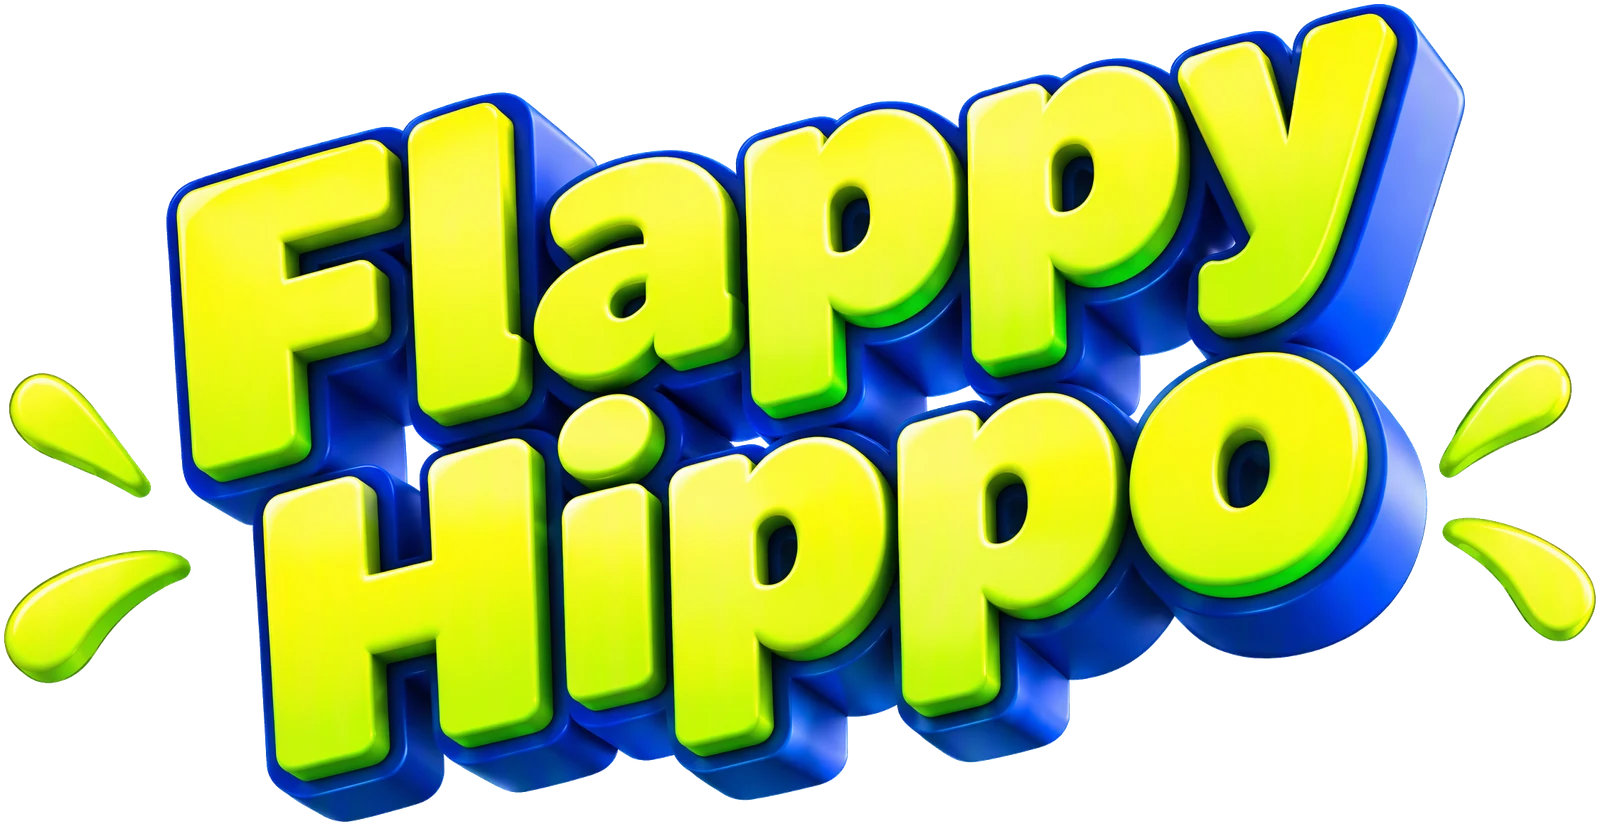
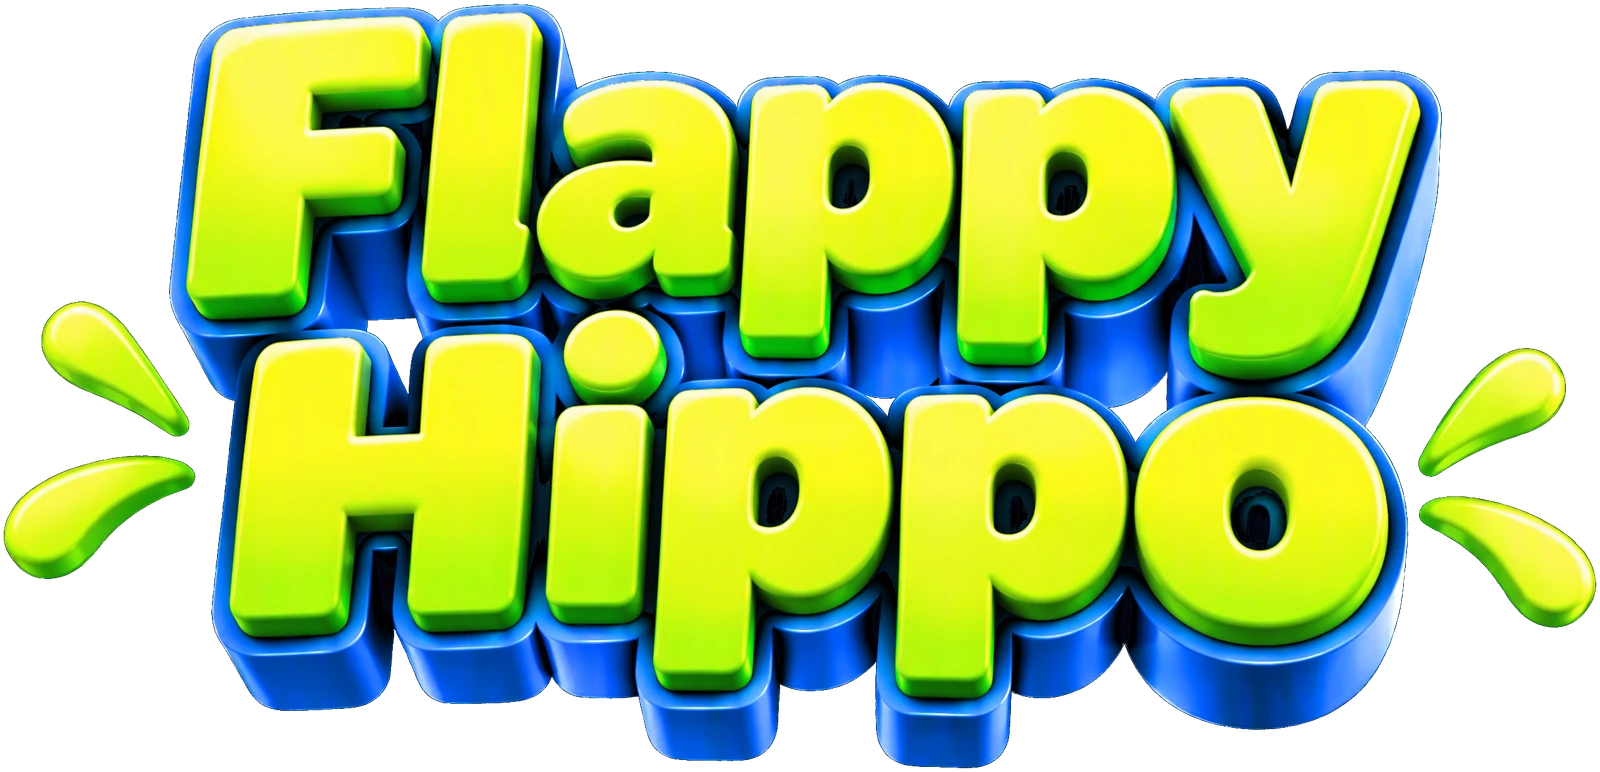
Swap in the new three dimensional lettering

diff --git a/scripts/make-assets.ts b/scripts/make-assets.ts
@@ -271,17 +271,104 @@ await writeFile(join(root, 'public', 'preview.jpg'), preview)
 console.log(`public/preview.jpg (${Math.round(preview.length / 1024)} KB)`)
 await writeFile(join(root, 'public', 'mask-icon.svg'), await asset('mask-icon.svg'))
 
+interface Blue {
+  /** Where the render's own blue lands. */
+  to: string
+  /** Above 1 puts colour back that a flatter blue loses. */
+  sat: number
+  /** Above 1 opens the gap between the lit faces and the shaded ones. */
+  contrast: number
+}
+
+/** Every blue tried, so an earlier look is one name away. */
+const BLUES = {
+  flat: { to: '#0d5cc8', sat: 0.88, contrast: 1 },
+  punchy: { to: '#0d5cc8', sat: 1.15, contrast: 1.4 },
+  deep: { to: '#0a4fb8', sat: 1.25, contrast: 1.6 },
+  darkest: { to: '#0847a8', sat: 1.3, contrast: 1.8 },
+} as const satisfies Record<string, Blue>
+
+const BLUE: Blue = BLUES.darkest
+
+/**
+ * The lettering is modelled in its own blue, a good deal darker than the pipes it hangs among.
+ * Blue pixels are moved onto the pipes' hue, saturation and lightness by the same factors, so the
+ * shading the render gave them survives; the yellow faces and the green rims are left alone.
+ */
+async function matchPipes(png: Buffer, from: string, blue: Blue): Promise<Buffer> {
+  const hex = (h: string): [number, number, number] =>
+    [1, 3, 5].map((i) => parseInt(h.slice(i, i + 2), 16)) as [number, number, number]
+  const toHsl = ([r, g, b]: [number, number, number]): [number, number, number] => {
+    r /= 255
+    g /= 255
+    b /= 255
+    const max = Math.max(r, g, b)
+    const min = Math.min(r, g, b)
+    const l = (max + min) / 2
+    if (max === min) return [0, 0, l]
+    const d = max - min
+    const s = l > 0.5 ? d / (2 - max - min) : d / (max + min)
+    const h = max === r ? (g - b) / d + (g < b ? 6 : 0) : max === g ? (b - r) / d + 2 : (r - g) / d + 4
+    return [h * 60, s, l]
+  }
+  const toRgb = ([h, s, l]: [number, number, number]): [number, number, number] => {
+    const hue = (((h % 360) + 360) % 360) / 360
+    if (s === 0) return [l, l, l].map((v) => Math.round(v * 255)) as [number, number, number]
+    const q = l < 0.5 ? l * (1 + s) : l + s - l * s
+    const p = 2 * l - q
+    const at = (t: number): number => {
+      const u = (t + 1) % 1
+      if (u < 1 / 6) return p + (q - p) * 6 * u
+      if (u < 1 / 2) return q
+      if (u < 2 / 3) return p + (q - p) * (2 / 3 - u) * 6
+      return p
+    }
+    return [at(hue + 1 / 3), at(hue), at(hue - 1 / 3)].map((v) => Math.round(Math.min(1, Math.max(0, v)) * 255)) as [
+      number,
+      number,
+      number,
+    ]
+  }
+
+  const [sh, , sl] = toHsl(hex(from))
+  const [th, , tl] = toHsl(hex(blue.to))
+  const { data, info } = await sharp(png).ensureAlpha().raw().toBuffer({ resolveWithObject: true })
+  for (let p = 0; p < info.width * info.height; p++) {
+    const i = p * 4
+    if (data[i + 3] < 8) continue
+    const r = data[i]
+    const g = data[i + 1]
+    const b = data[i + 2]
+    if (!(b > r + 25 && b > g + 15)) continue
+    const [h, s, l] = toHsl([r, g, b])
+    const [nr, ng, nb] = toRgb([
+      h + (th - sh),
+      Math.min(1, s * blue.sat),
+      Math.min(1, Math.max(0, tl + (l - sl) * blue.contrast)),
+    ])
+    data[i] = nr
+    data[i + 1] = ng
+    data[i + 2] = nb
+  }
+  return sharp(data, { raw: { width: info.width, height: info.height, channels: 4 } })
+    .png()
+    .toBuffer()
+}
+
 // ---- wordmark ---------------------------------------------------------------------------------
-// The poster's lettering for the desktop frame (src/assets/wordmark.png, on white): the white is
-// keyed out the way the icon's blue is, stray specks go, and it is cropped to the lettering at a
-// width a 2x display shows full size.
+// The lettering for the desktop frame (src/assets/wordmark.png, on black): the black is keyed out
+// the way the icon's blue is, stray specks go, the blue is brought onto the pipes' own, and it is
+// cropped to the lettering at a width a 2x display shows full size.
 const mark = await cutout(await asset('wordmark.png'), true)
 const cleaned = await dropSpecks(mark, 1500, 'wordmark')
 const margin = 6
 const [l, t, r, b] = cleaned.box
-const wordmark = await sharp(cleaned.png)
+const cropped = await sharp(cleaned.png)
   .extract({ left: l - margin, top: t - margin, width: r - l + 1 + margin * 2, height: b - t + 1 + margin * 2 })
   .resize({ width: 1600 })
+  .png()
+  .toBuffer()
+const wordmark = await sharp(await matchPipes(cropped, '#0030a0', BLUE))
   .webp({ quality: 88, alphaQuality: 90 })
   .toBuffer()
 await out('wordmark.webp', wordmark)

diff --git a/src/components/Wordmark.tsx b/src/components/Wordmark.tsx
@@ -1,69 +1,71 @@
-import { useLayoutEffect, useRef, useState } from 'react'
+import { useCallback, useState } from 'react'
+import type { SyntheticEvent } from 'react'
+import { grainUrl } from './grain.ts'
 
 interface WordmarkProps {
   height: number
-  claim: string | null
   dark: boolean
 }
 
 /** The lettering is lit for daylight; at night it is dimmed to sit in the dark sky. */
-export const WORDMARK_NIGHT = 0.85
+export const WORDMARK_NIGHT = 0.72
 
-export function Wordmark({ height, claim, dark }: WordmarkProps) {
-  const imageHeight = Math.round(height * (claim ? 0.64 : 0.86))
-  const claimSize = Math.round(imageHeight * 0.13)
-  const group = useRef<HTMLDivElement>(null)
-  const pill = useRef<HTMLParagraphElement>(null)
-  // The claim is tilted, and a rotation hangs below the box it is laid out in without widening
-  // it. Measured and given back as a margin, so the caller's bottom edge is the one you see.
-  const [overhang, setOverhang] = useState(0)
+/** How much of the room above the board the tilted lettering fills. */
+const FILL = 1.06
 
-  useLayoutEffect(() => {
-    const box = group.current
-    const tilted = pill.current
-    if (!box || !tilted) {
-      setOverhang(0)
-      return
-    }
-    // Both boxes move together with the margin, so this difference is stable.
-    const below = tilted.getBoundingClientRect().bottom - box.getBoundingClientRect().bottom
-    setOverhang(Math.max(0, Math.round(below)))
-  }, [imageHeight, claimSize, claim])
+/** The tilt the lettering hangs at. */
+const TILT = -10
+
+/** The page's specks, taken finer and fainter: the lettering is small and brightly lit. */
+const GRAIN = { tile: 120, strength: 0.7 }
+
+/**
+ * A tilt turns the box out past the one it is laid out in without widening that one. The caller
+ * aligns the laid-out box, which puts the lettering's lower edge on the board's top edge and lets
+ * only the low corner reach further in, well clear of the score in the middle.
+ */
+export function Wordmark({ height, dark }: WordmarkProps) {
+  const [aspect, setAspect] = useState(1600 / 772)
+  const rad = (Math.abs(TILT) * Math.PI) / 180
+  const tall = Math.round((height * FILL) / (Math.cos(rad) + aspect * Math.sin(rad)))
+
+  const onLoad = useCallback((event: SyntheticEvent<HTMLImageElement>) => {
+    const img = event.currentTarget
+    if (img.naturalHeight > 0) setAspect(img.naturalWidth / img.naturalHeight)
+  }, [])
 
   return (
-    <div
-      ref={group}
-      className="pointer-events-none flex flex-col items-center justify-center"
-      style={{ filter: dark ? `brightness(${WORDMARK_NIGHT})` : undefined, marginBottom: overhang }}
+    <span
+      className="pointer-events-none relative inline-block"
+      style={{
+        transform: `rotate(${TILT}deg)`,
+        filter: dark ? `brightness(${WORDMARK_NIGHT})` : undefined,
+      }}
       aria-hidden="true"
     >
       <img
         src="wordmark.webp"
         alt=""
         width={1600}
-        height={826}
+        height={772}
         decoding="async"
-        className="relative z-10"
-        style={{ height: imageHeight, width: 'auto', maxWidth: '90vw' }}
+        onLoad={onLoad}
+        className="block"
+        style={{ height: tall, width: 'auto', maxWidth: '90vw' }}
       />
-      {claim && (
-        <p
-          ref={pill}
-          className="t-label relative z-0 rounded-full whitespace-nowrap"
-          style={{
-            fontSize: claimSize,
-            lineHeight: 1.2,
-            padding: `${claimSize * 0.32}px ${claimSize * 1.1}px`,
-            marginTop: -claimSize * 0.85,
-            background: '#dcf23e',
-            color: '#12307f',
-            boxShadow: `0 ${Math.max(2, claimSize * 0.14)}px 0 #9fc11d`,
-            transform: `translateX(${imageHeight * 0.1}px) rotate(-10deg)`,
-          }}
-        >
-          {claim}
-        </p>
-      )}
-    </div>
+      {/* The page's specks again, masked to the lettering so they do not settle on the sky. */}
+      <span
+        className="absolute inset-0"
+        style={{
+          backgroundImage: `url(${grainUrl()})`,
+          backgroundSize: `${GRAIN.tile}px ${GRAIN.tile}px`,
+          opacity: GRAIN.strength,
+          maskImage: 'url(wordmark.webp)',
+          WebkitMaskImage: 'url(wordmark.webp)',
+          maskSize: '100% 100%',
+          WebkitMaskSize: '100% 100%',
+        }}
+      />
+    </span>
   )
 }

diff --git a/src/components/StartCard.tsx b/src/components/StartCard.tsx
@@ -39,31 +39,45 @@ export function StartCard({
 
   return (
     <CardShell onBackdropTap={onStart} labelledBy="start-title">
-      {!logoAbove && (
-        <img
-          src="wordmark.webp"
-          alt=""
-          width={1600}
-          height={826}
-          decoding="async"
-          className="mx-auto mb-1 block h-auto w-full max-w-[15rem]"
-          style={{ filter: dark ? `brightness(${WORDMARK_NIGHT})` : undefined }}
-        />
-      )}
-      <h2 id="start-title" className={logoAbove ? 't-title text-brand' : 'sr-only'}>
-        {logoAbove ? t.start.title : 'Flappy Hippo'}
-      </h2>
+      {/* The lettering and the record are one block, lit from behind, so the pair reads as the
+          card's head rather than as two things that happen to sit above each other. */}
+      <div
+        className={logoAbove ? undefined : '-mx-2 -mt-2 rounded-[1.25rem] px-2 pt-3 pb-2'}
+        style={
+          logoAbove
+            ? undefined
+            : {
+                background:
+                  'radial-gradient(72% 62% at 50% 42%, color-mix(in srgb, var(--game-brand) 14%, transparent), transparent 72%)',
+              }
+        }
+      >
+        {!logoAbove && (
+          <img
+            src="wordmark.webp"
+            alt=""
+            width={1600}
+            height={772}
+            decoding="async"
+            className="mx-auto block h-auto w-full max-w-[15rem]"
+            style={{ filter: dark ? `brightness(${WORDMARK_NIGHT})` : undefined }}
+          />
+        )}
+        <h2 id="start-title" className={logoAbove ? 't-title text-brand' : 'sr-only'}>
+          {logoAbove ? t.start.title : 'Flappy Hippo'}
+        </h2>
 
-      {best > 0 && (
-        <p className="mt-2">
-          <Stat
-            icon={medal ? <MedalBadge medal={medal} size={21} /> : <IconTrophy width={18} height={18} />}
-            tone="brand"
-          >
-            {t.start.record} <span className="t-number">{best}</span>
-          </Stat>
-        </p>
-      )}
+        {best > 0 && (
+          <p className={logoAbove ? 'mt-2' : 'mt-0.5'}>
+            <Stat
+              icon={medal ? <MedalBadge medal={medal} size={21} /> : <IconTrophy width={18} height={18} />}
+              tone="brand"
+            >
+              {t.start.record} <span className="t-number">{best}</span>
+            </Stat>
+          </p>
+        )}
+      </div>
 
       <div className="mt-5">
         <Segmented

diff --git a/src/components/Game.tsx b/src/components/Game.tsx
@@ -34,12 +34,11 @@ function menuFromUrl(): MenuTab | null {
   }
 }
 
-/** How far the lettering reaches past the board's top edge, so it sits on the board, not above it. */
-const WORDMARK_DIP = 12
+/** How far the lettering's lower edge reaches past the board's top edge, clear of the score. */
+const WORDMARK_DIP = 14
 
-/** Room above the board, in CSS pixels, before the wordmark, its claim, and the shortcut line show. */
+/** Room above the board, in CSS pixels, before the wordmark and the shortcut line show. */
 const WORDMARK_MIN = 110
-const CLAIM_MIN = 170
 const SHORTCUTS_MIN = 176
 
 /** A phone held upright: the one case where turning the view shows more of the field ahead. */
@@ -148,10 +147,10 @@ export function Game() {
 
       {showWordmark && (
         <div
-          className="pointer-events-none absolute inset-x-0 top-0 z-[5] flex items-end justify-center"
+          className="pointer-events-none absolute inset-x-0 top-0 z-30 flex items-end justify-center"
           style={{ height: room + WORDMARK_DIP }}
         >
-          <Wordmark height={room} claim={room >= CLAIM_MIN ? t.desktop.claim : null} dark={resolved === 'dark'} />
+          <Wordmark height={room} dark={resolved === 'dark'} />
         </div>
       )}
       {showShortcuts && <ShortcutBar height={room} />}

diff --git a/src/components/grain.ts b/src/components/grain.ts
@@ -1,0 +1,35 @@
+/**
+ * Specks of black and white at low opacity. A blend mode would be the obvious choice, but overlay
+ * and soft light both fade out against a sky this pale; plain specks carry over any ground.
+ */
+
+export const GRAIN = { tile: 180, strength: 11 }
+
+let tile: HTMLCanvasElement | null = null
+let url: string | null = null
+
+export function grainTile(): HTMLCanvasElement {
+  if (tile) return tile
+  const canvas = document.createElement('canvas')
+  canvas.width = GRAIN.tile
+  canvas.height = GRAIN.tile
+  tile = canvas
+  const ctx = canvas.getContext('2d')
+  if (!ctx) return canvas
+  const noise = ctx.createImageData(canvas.width, canvas.height)
+  for (let i = 0; i < noise.data.length; i += 4) {
+    const value = Math.random() < 0.5 ? 0 : 255
+    noise.data[i] = value
+    noise.data[i + 1] = value
+    noise.data[i + 2] = value
+    noise.data[i + 3] = Math.random() * GRAIN.strength
+  }
+  ctx.putImageData(noise, 0, 0)
+  return canvas
+}
+
+/** The same specks as a CSS background, for the parts of the page that are not the canvas. */
+export function grainUrl(): string {
+  url ??= grainTile().toDataURL()
+  return url
+}
